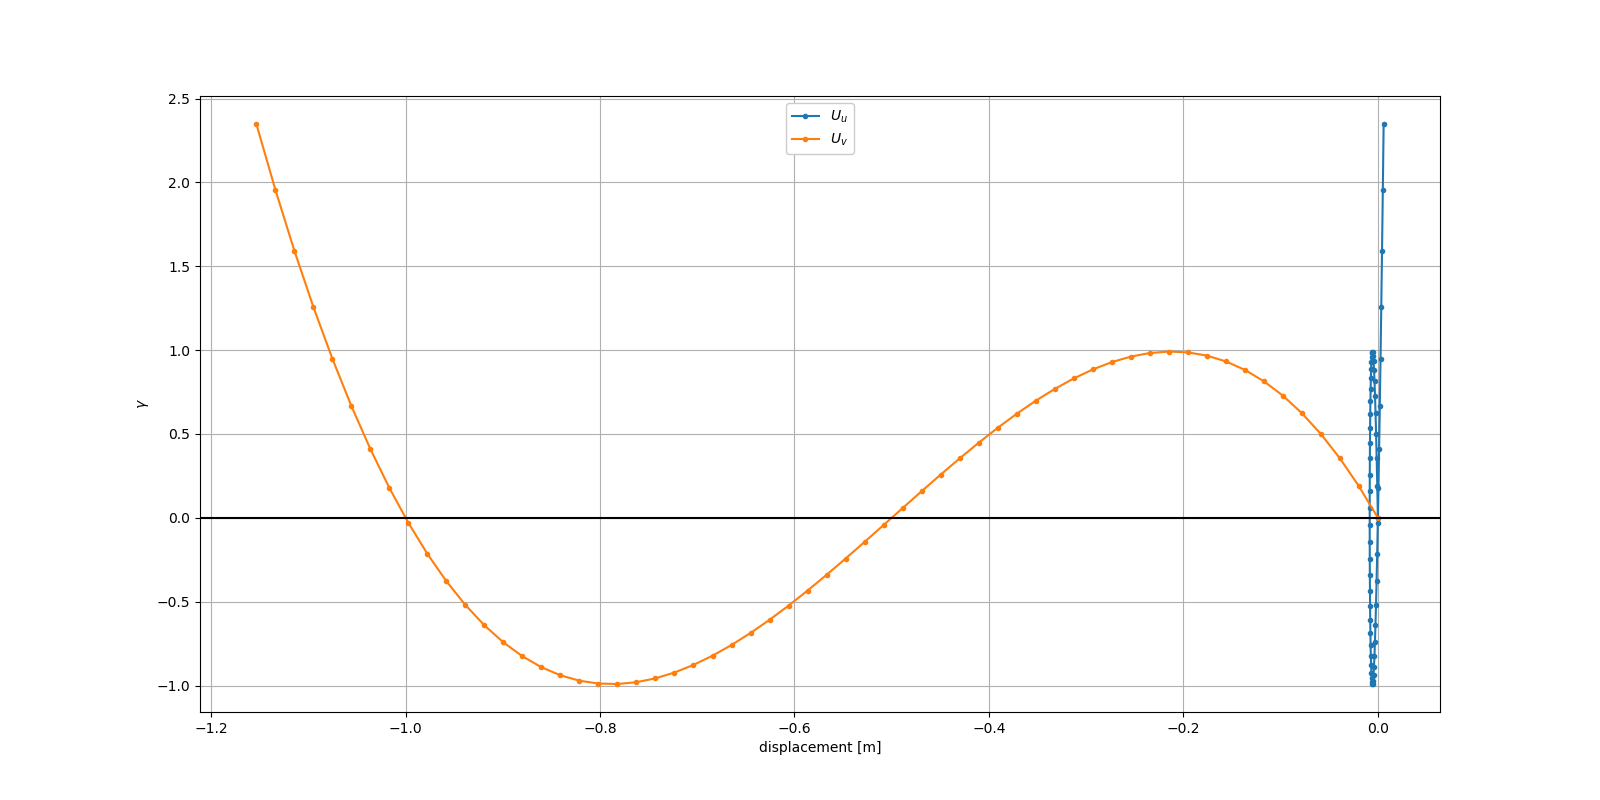
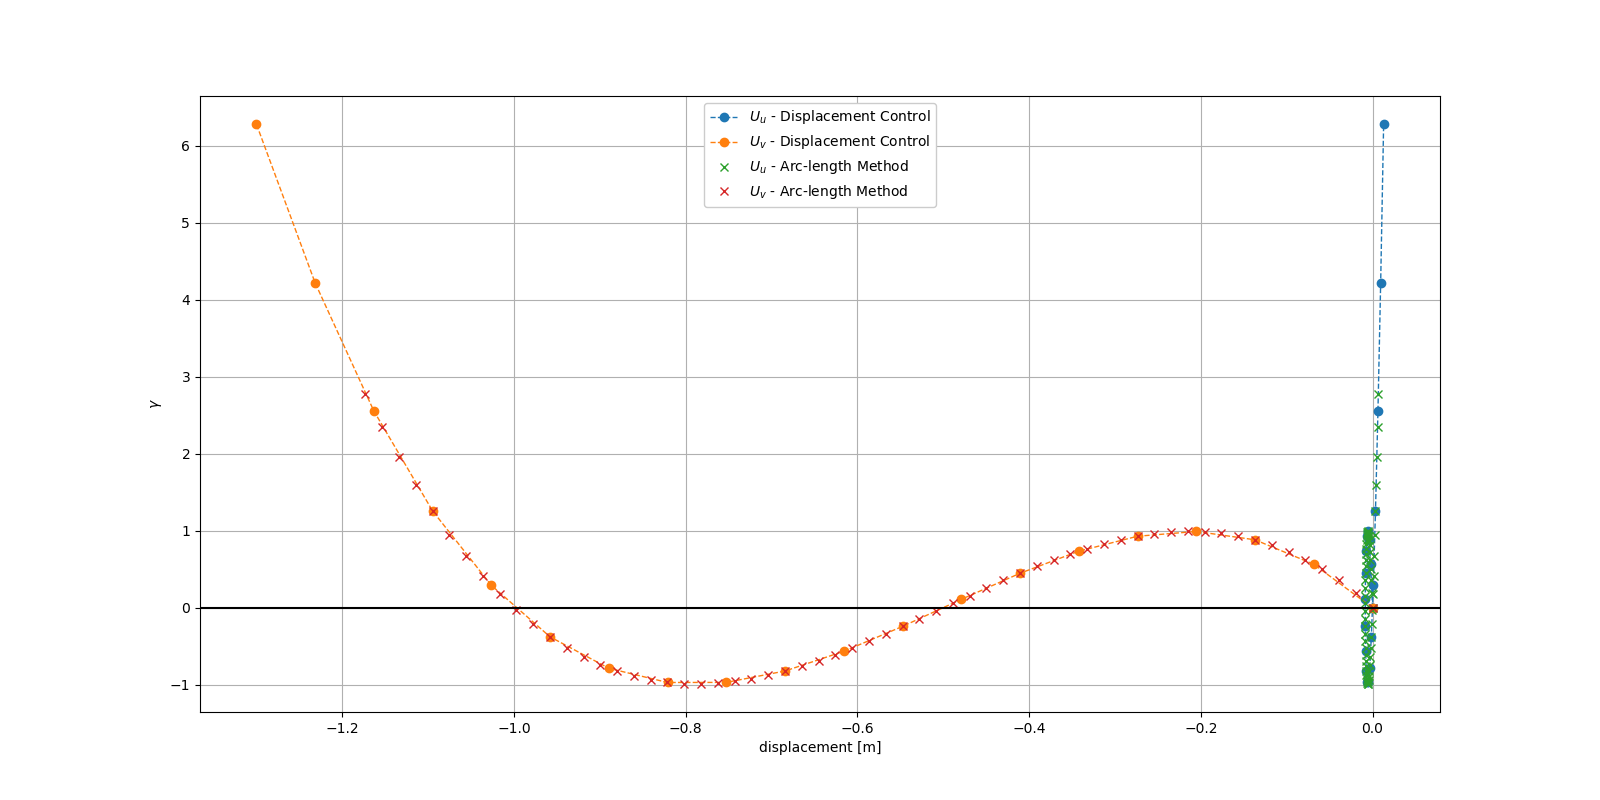
Problem 2 Complete

diff --git a/Code/Assignments/Assignment 3/Problem3-2/main3-2.py b/Code/Assignments/Assignment 3/Problem3-2/main3-2.py
@@ -53,7 +53,7 @@ Uu = [0]
 Uv = [0]
 G = [0]
 
-# Initial Step to find delta_s^2
+# Initial Step to set delta_s^2
 # Set Displacements and Construct Global K Matrix
 [K_global, Fint] = trussAssemble(T, u_n, dim, ndof)
 Kf = K_global[free_dof, :][:, free_dof]
@@ -121,86 +121,33 @@ for i in range(60):
 # Transpose for easier plotting
 u_list = u_list.transpose()
 
+# ----------------------------------------------------------------------------------------------------------------------
+# Plot of gamma vs displacement, part 4 of assignment problem
+# ----------------------------------------------------------------------------------------------------------------------
+
+# Read results from HW2
+HW2G = []
+HW2Uu = []
+HW2Uv = []
+f = open("CESG506/Code/Assignments/Assignment 3/Problem3-2/FromHW2/HW2outputs", "r")
+for line in f:
+    row = line.strip('\n').split(',')
+    HW2G.append(float(row[0]))
+    HW2Uu.append(float(row[1]))
+    HW2Uv.append(float(row[2]))
+f.close()
+
 plt.figure(1, figsize=(16, 8))
-plt.plot(Uu, G, label="$U_u$", marker='.')
-plt.plot(Uv, G, label="$U_v$", marker='.')
+plt.plot(HW2Uu, HW2G, label="$U_u$ - Displacement Control", marker='o', linestyle='--', linewidth='1')
+plt.plot(HW2Uv, HW2G, label="$U_v$ - Displacement Control", marker='o', linestyle='--', linewidth='1')
+plt.plot(Uu, G, label="$U_u$ - Arc-length Method", marker='x', linestyle='')
+plt.plot(Uv, G, label="$U_v$ - Arc-length Method", marker='x', linestyle='')
 
 plt.xlabel('displacement [m]')
 plt.ylabel('$\gamma$')
 
-plt.legend(loc='upper center', ncol=1, framealpha=1)
+plt.legend(loc='best', ncol=1, framealpha=1)
 plt.axhline(y=0, color='black')
 plt.grid(True)
-# plt.savefig("CESG506/Code/Assignments/Assignment 3/Problem3-2/Prob3-2_GammaVsDisp")
+plt.savefig("CESG506/Code/Assignments/Assignment 3/Problem3-2/Prob3-2_GammaVsDisp")
 plt.show()
-
-# # ----------------------------------------------------------------------------------------------------------------------
-# # Plot of gamma vs displacement, part 3 of assignment problem
-# # ----------------------------------------------------------------------------------------------------------------------
-# plt.figure(1, figsize=(16, 8))
-# plt.plot(Uu, G, label="$U_u$", marker='.')
-# plt.plot(Uv, G, label="$U_v$", marker='.')
-#
-# plt.xlabel('displacement [m]')
-# plt.ylabel('$\gamma$')
-#
-# plt.legend(loc='upper center', ncol=1, framealpha=1)
-# plt.axhline(y=0, color='black')
-# plt.grid(True)
-# # plt.savefig("CESG506/Code/Assignments/Assignment 3/Problem3-3/Prob3-3_GammaVsDisp")
-# plt.show()
-
-# # ----------------------------------------------------------------------------------------------------------------------
-# # Plot of u vs v, with Fx(u,v) and Fy(u,v) contour plot, part 4 of assignment problem
-# # ----------------------------------------------------------------------------------------------------------------------
-# # Compute contour plot values
-# grid_n = 100
-# xlist = np.linspace(0.015, -0.010, grid_n)
-# ylist = np.linspace(0.1, -1.3, grid_n)
-# X, Y = np.meshgrid(xlist, ylist)
-# Zx = np.zeros((grid_n, grid_n))
-# Zy = np.zeros((grid_n, grid_n))
-#
-# x_idx = 0
-# for xi in xlist:
-#     y_idx = 0
-#     for yi in ylist:
-#         uv = np.array([xi, yi])
-#         t1.setDisp(zeroU, uv)
-#         t2.setDisp(zeroU, uv)
-#         F1 = t1.get_F()
-#         F2 = t2.get_F()
-#         Zx[x_idx, y_idx] = F1[0] + F2[0]
-#         Zy[x_idx, y_idx] = F1[1] + F2[1]
-#         y_idx = y_idx + 1
-#     x_idx = x_idx + 1
-#
-# # Plotting
-# plt.figure(2, figsize=(16, 8))
-#
-# # Fx
-# plt.subplot(1, 2, 1)
-# norm_x = colors.Normalize(vmin=-20, vmax=20)
-# plt.contourf(X, Y, Zx.transpose(), 100, cmap='RdBu_r', norm=norm_x)
-# plt.colorbar()
-# plt.plot(Uu, Uv, label='Displacement Path', marker='o', color='black')
-# plt.title('u vs v with $F_x$ [kN] Overlay')
-# plt.xlabel('x-displacement [m]')
-# plt.ylabel('y-displacement [m]')
-# plt.legend(loc='best', ncol=1, framealpha=1)
-# plt.grid(True)
-#
-# # Fy
-# plt.subplot(1, 2, 2)
-# norm_y = colors.Normalize(vmin=-3, vmax=3)
-# plt.contourf(X, Y, Zy.transpose(), 100, cmap='RdBu_r', norm=norm_y)
-# plt.colorbar()
-# plt.plot(Uu, Uv, label='Displacement Path', marker='o', color='black')
-# plt.title('u vs v with $F_y$ [kN] Overlay')
-# plt.xlabel('x-displacement [m]')
-# plt.ylabel('y-displacement [m]')
-# plt.legend(loc='best', ncol=1, framealpha=1)
-# plt.grid(True)
-# plt.savefig("CESG506/Code/Assignments/Assignment 2/Problem2-1/Prob2-1_ContourPlot")
-#
-# plt.show()

diff --git a/Code/Assignments/Assignment 3/Problem3-2/FromHW2/HW2Prob1.py b/Code/Assignments/Assignment 3/Problem3-2/FromHW2/HW2Prob1.py
@@ -1,0 +1,107 @@
+# CESG 506 - Nonlinear Analysis of Structural Systems
+# Assignment 2 - Problem 2-1: Using Truss Class
+# Displacement control for a 2 DOF problem
+# Tatsuhiko Sweet, EDITED for assignment 3 on 4/29/2020
+
+import sys
+import numpy as np
+import matplotlib.pyplot as plt
+import matplotlib.colors as colors
+sys.path.insert(0, 'CESG506/Code/Assignments/Assignment 2')
+from trussClass import *
+
+# Create Nodes
+X1 = np.array([0.0, 0.0])
+X2 = np.array([5.5, 0.5])
+X3 = np.array([9.5, 0.0])
+
+# Create Trusses
+t1 = trussClass([1, 2], X1, X2, 2100)
+t2 = trussClass([3, 2], X3, X2, 2100)
+
+# Convergence criteria
+max_iteration = 10
+tol = 1e-12 # kN
+
+# P vector constructed from reference load: P = P0 + gamma * Pbar
+P0   = np.array([0, 0])
+Pbar = np.array([0, -0.99])
+
+# Constraint Parameters: g = dot(u_free, ek) - uk = 0
+uk = -np.linspace(0, 1.3, 20)
+ek = np.array([0,  1])
+
+# Start at u = zero, gamma = 0
+u = np.array([0, 0])
+gamma = 0
+
+# Initialization Lists for plotting
+zeroU = np.array([0, 0])
+Uu = []
+Uv = []
+G = []
+
+for ui in uk:
+    for count in range(max_iteration+1):
+        # Manually pass displacements to update Strains, n, and ke
+        t1.setDisp(zeroU, u)
+        t2.setDisp(zeroU, u)
+
+        # Manually construct Kff
+        Kf = t1.get_ke() + t2.get_ke()
+
+        # Manually compute Residual (Equilibrium)
+        P  = P0 + gamma*Pbar
+        R = P - t1.get_F() - t2.get_F()
+
+        # Assemble Updated Rg vector containing R and g
+        g = np.dot(u, ek)-ui
+        Rg = np.append([R], [g])
+
+        # Assemble full matrix with Kff, -P, and -ek
+        Kg = np.hstack((Kf, np.array([-Pbar]).T))
+        Kg = np.vstack((Kg, np.append(-ek, 0)))
+
+        # Check for convergence; if true, save and print results, break
+        if np.linalg.norm(Rg) <= tol:
+            print('u = {}m, P = {:.9f} kN = {}Pbar, '
+                  'Iteration Count = {}'.format(u, P[1], gamma, count))
+            Uu.append(u[0])
+            Uv.append(u[1])
+            G.append(gamma)
+            break
+
+        # Save and Print Results if it does not converge by max iteration
+        if count == max_iteration:          # Exit loop if max iteration is reached before convergence
+            print('u = {}m, P = {} kN = {}Pbar, '
+                  'Stopped at Max Iteration = {}'.format(u, P[1], gamma, count))
+            Uu.append(u[0])
+            Uv.append(u[1])
+            G.append(gamma)
+
+        # Update u and gamma
+        dU = np.dot(np.linalg.inv(Kg), Rg)
+        u = u + dU[[0, 1]]
+        gamma = gamma + dU[2]
+
+# ----------------------------------------------------------------------------------------------------------------------
+# Plot of gamma vs displacement, part 3 of assignment problem
+# ----------------------------------------------------------------------------------------------------------------------
+plt.figure(1, figsize=(16, 8))
+plt.plot(Uu, G, label="$U_u$", marker='.')
+plt.plot(Uv, G, label="$U_v$", marker='.')
+
+plt.xlabel('displacement [m]')
+plt.ylabel('$\gamma$')
+
+plt.legend(loc='upper center', ncol=1, framealpha=1)
+plt.axhline(y=0, color='black')
+plt.grid(True)
+plt.show()
+
+# Write to text file (deltaU = 0.0125, from 0 to 1.2375)
+f = open("CESG506/Code/Assignments/Assignment 3/Problem3-2/FromHW2/HW2outputs", "w+")
+for i in range(len(G)):
+    f.write('{},{},{}'.format(G[i], Uu[i], Uv[i]))
+    f.write('\n')
+f.close()
